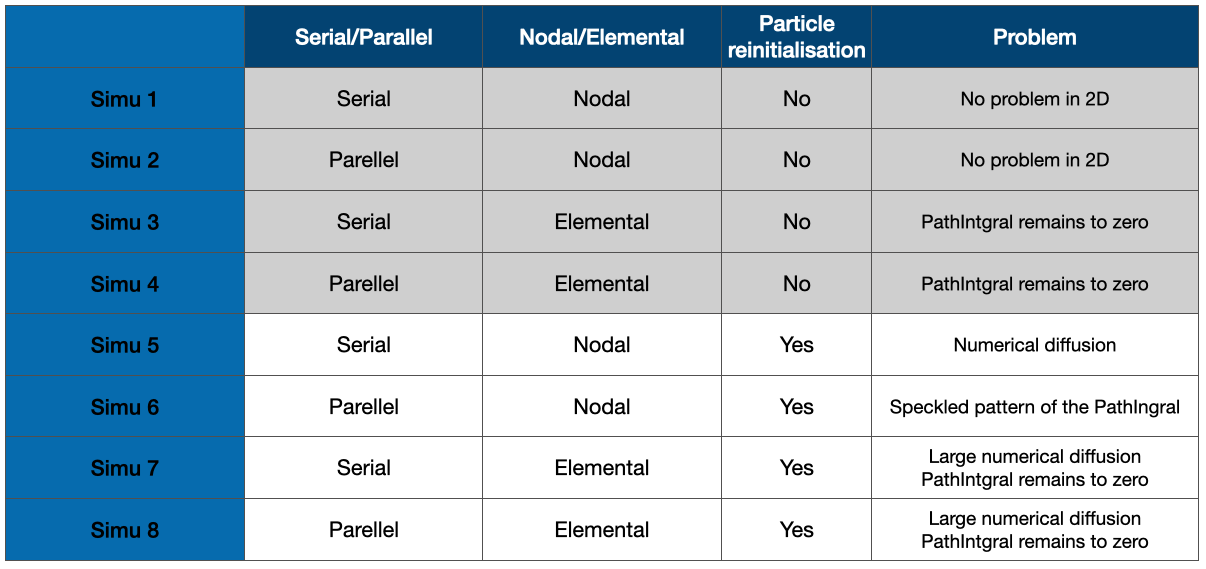
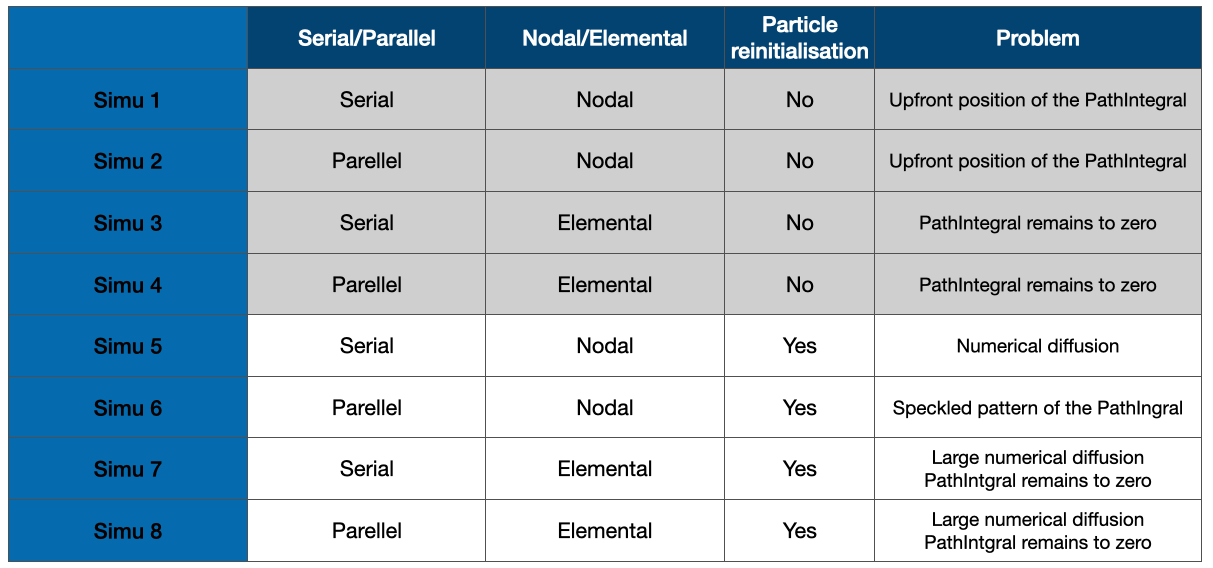
update

diff --git a/AdvReac_Test/README.md b/AdvReac_Test/README.md
@@ -53,7 +53,7 @@ The input and output variables are Nodal.
  
 #### 1.1.1 Serial
 
-In Serial, `Hadv` is well advected with no loss. `ParticlePathIntegral` evolves upfront the position of the source term `Real matc "1.1*tx"`. Linked to the fact that the `Particle Time Integral` advects the `Source` term that depends itself on `Hadv`.
+In Serial, `Hadv` is well advected with no loss. `ParticlePathIntegral` evolves upfront the position of the source term `Real matc "1.1*tx"`. Partially linked to the fact that the `Particle Time Integral` advects the `Source` term that depends itself on `Hadv`; but the upfront position looks larger than a1 timestep advection.
 
 <figure>
 <center>
